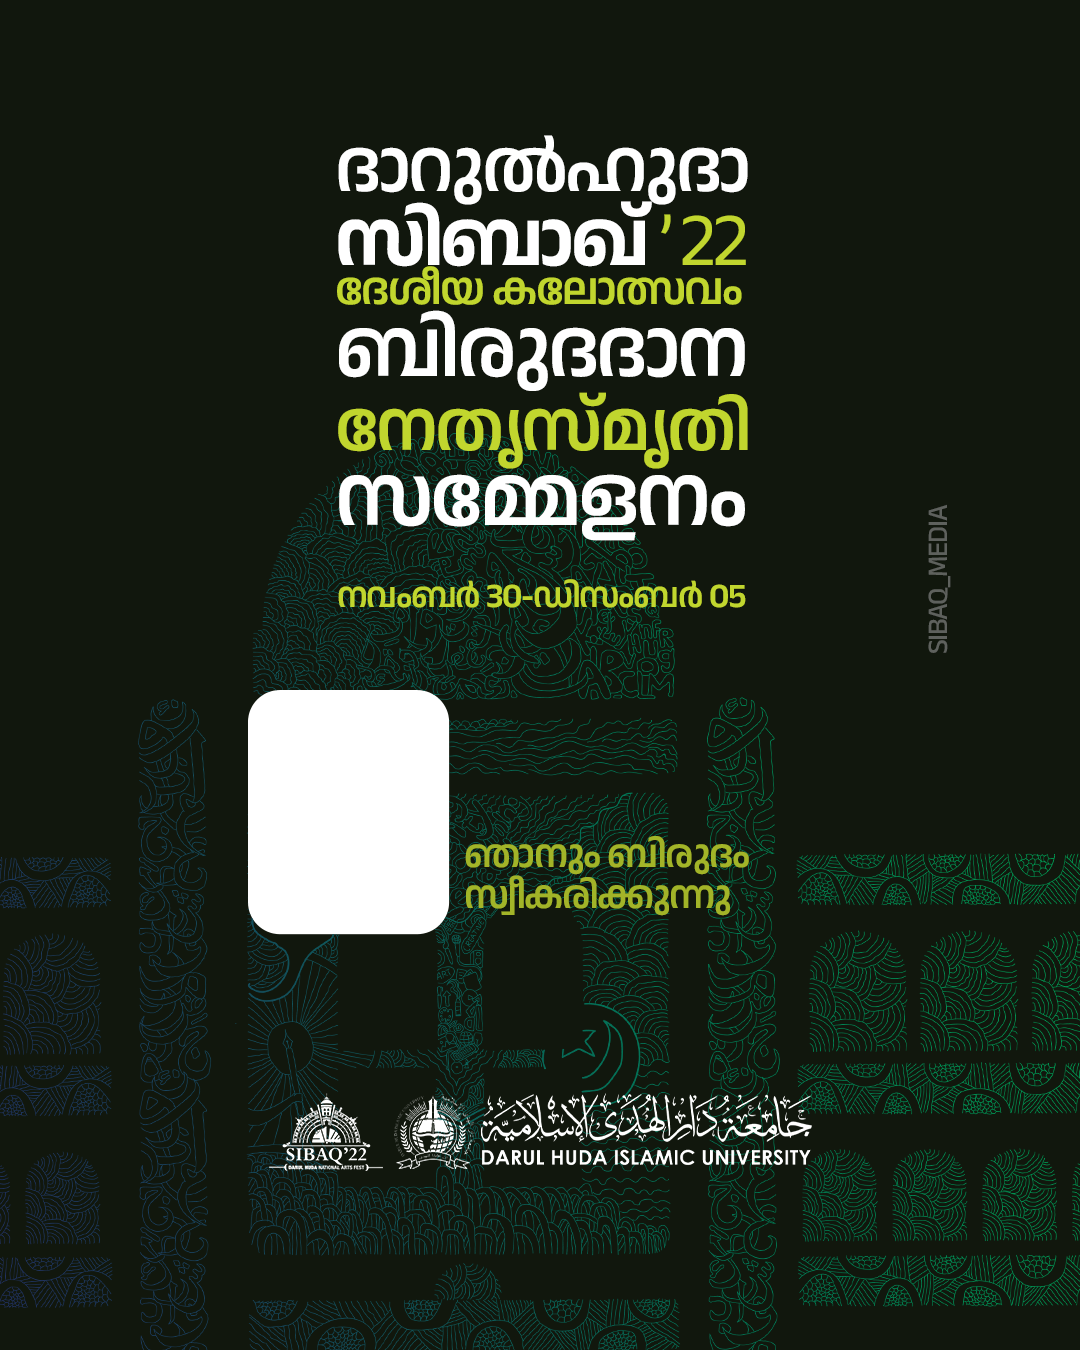
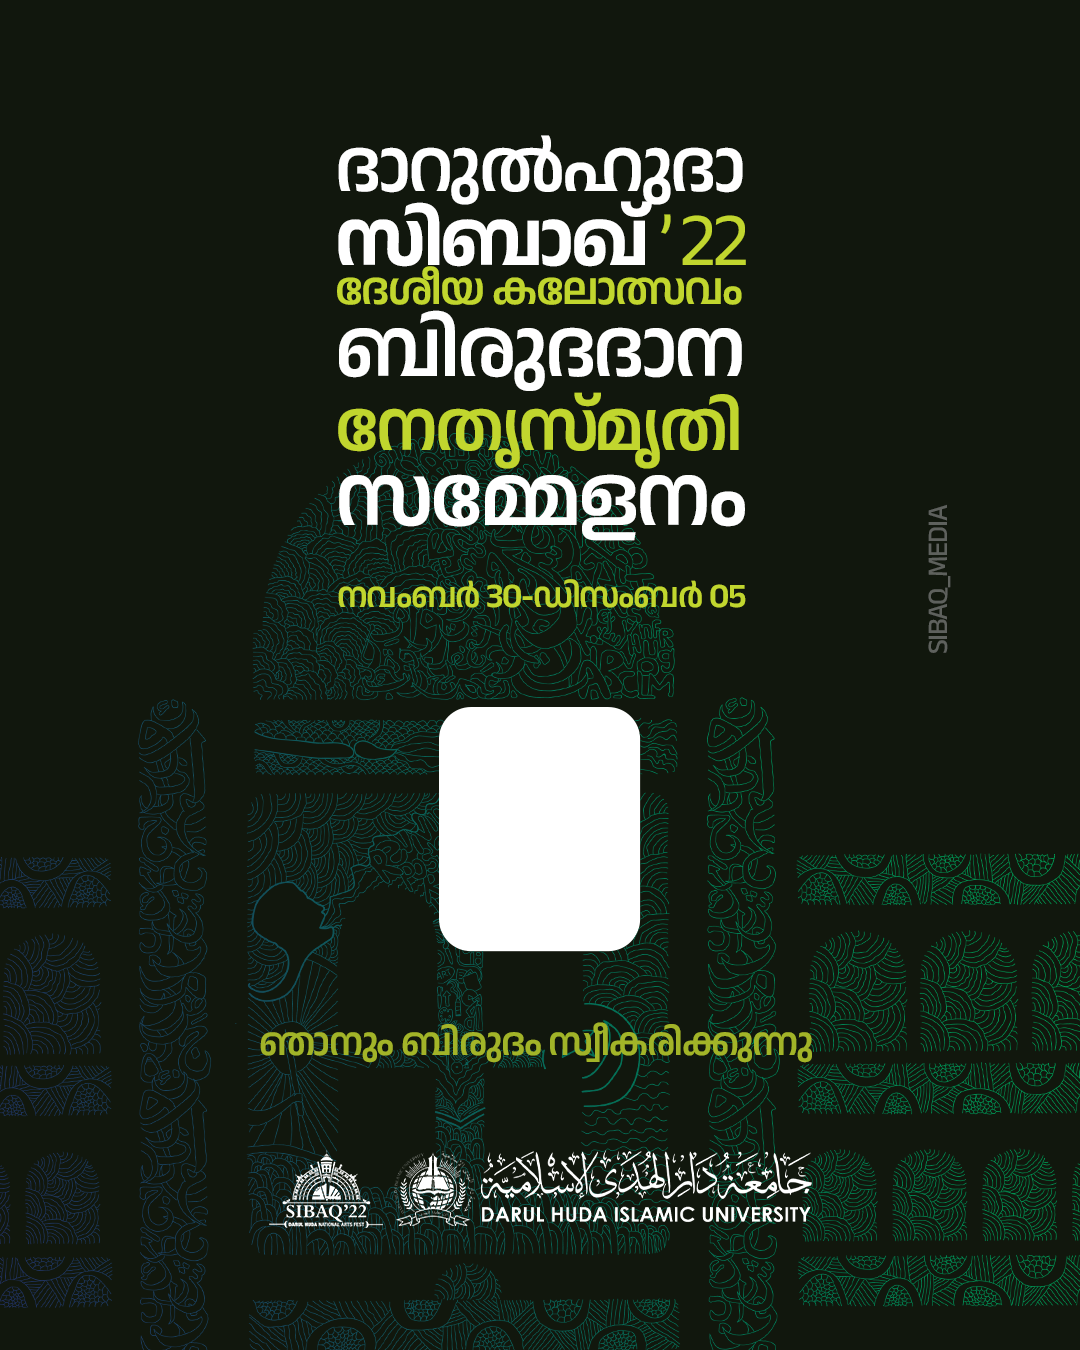
new fram center

diff --git a/src/app.jsx b/src/app.jsx
@@ -21,8 +21,8 @@ let bg = new Image();
 let DocW = 800;
 let DocH = 1000;
 
-let Cropy = 512;
-let Cropx = 175;
+let Cropy = 524;
+let Cropx = 305;
 
 let CropH = 179;
 let CropW = 178;
@@ -70,7 +70,7 @@ export function App(props) {
       _ctx.shadowBlur = 5;
      _ctx.shadowColor = "black";
 
-     _ctx.fillText(_name, Cropx + CropW / 2 - txtW / 4 + 125, Cropy + CropH - 80);
+     _ctx.fillText(_name, Cropx + CropW / 2 - txtW / 2  , Cropy + CropH + 40);
       setGeneratedData(_canv.toDataURL({ pixelRatio: 3 }));
 
       //console.log(_data);
